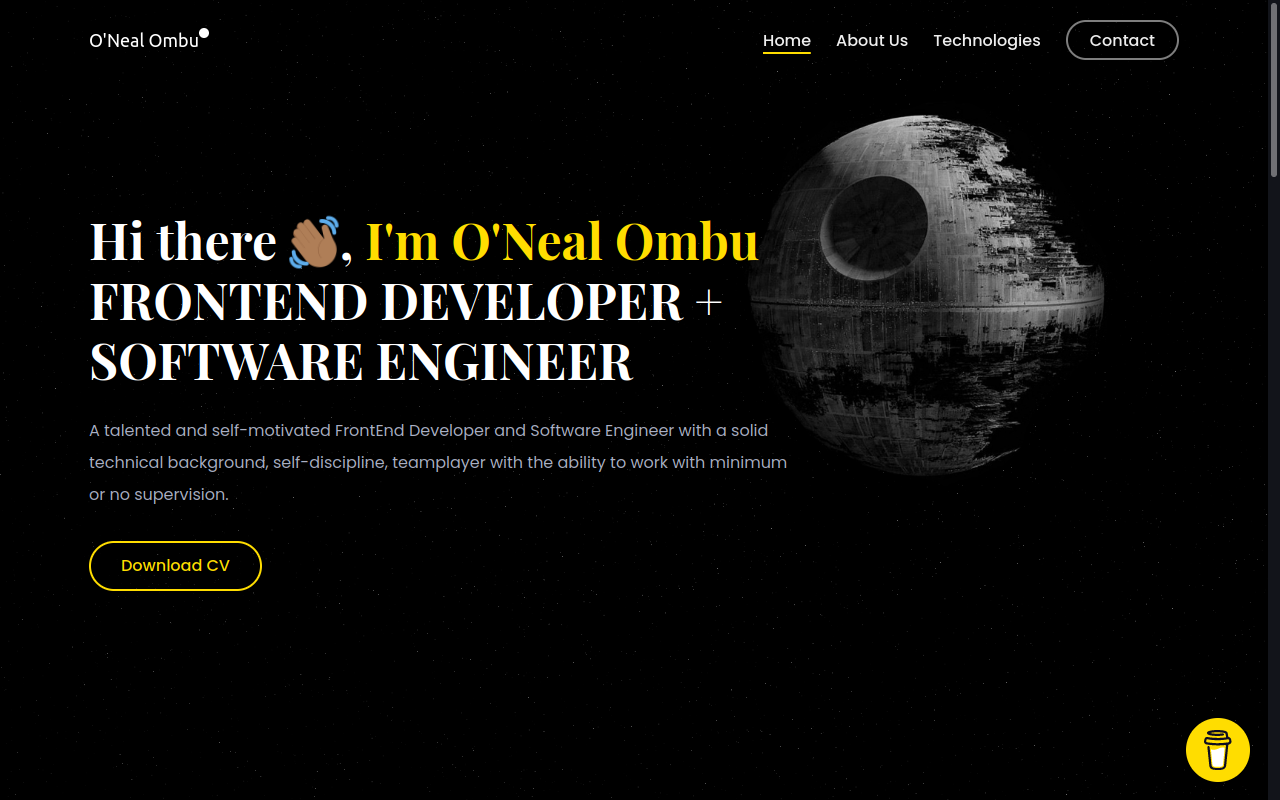
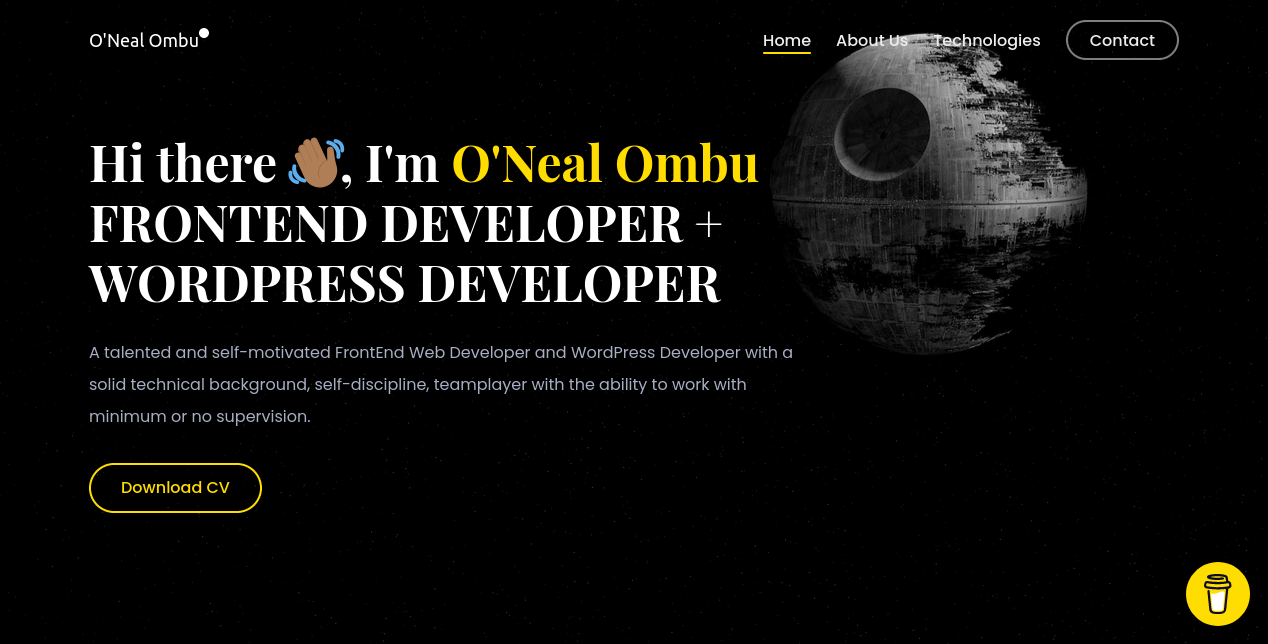
Add files via upload

Changed region(s): [[0.0615, 0.0311, 0.9227, 0.8075], [0.9227, 0.0, 1.0, 1.0], [0.0615, 0.0311, 0.1845, 0.0932]]

diff --git a/index.html b/index.html
@@ -41,7 +41,7 @@
     <meta property="twitter:title" content="O'Neal Ombu" />
     <meta
       property="twitter:description"
-      content="I am O'Neal Ombu a FrontEnd Web Developer and Mobile Software Engineer that builds web interfaces and mobile apps revolving around iOS and Android."
+      content="I am O'Neal Ombu a FrontEnd Web Developer and WordPress Developer that builds web and mobile apps revolving around iOS and Android."
     />
     <meta
       property="twitter:image"
@@ -135,7 +135,7 @@
                   <li class="current"><a href="#home">Home</a></li>
                   <li><a href="#about">About Us</a></li>
                   <li><a href="#technologies">Technologies</a></li>
-                  <li class="button"><a href="#contact">Contact</a></li>
+                  <li class="button"><a href="#contact">Hire me!</a></li>
                 </ul>
                 <span class="ccc"></span>
               </div>
@@ -195,19 +195,19 @@
               <div class="content_in">
                 <h3 class="title">
                   Hi there <span class="wave">👋🏾</span>,
-                  <span>I'm O'Neal Ombu</span>
-                  FRONTEND WEB DEVELOPER + MOBILE SOFTWARE ENGINEER
+                  I'm <span>O'Neal Ombu</span>
+                  FRONTEND DEVELOPER + WORDPRESS DEVELOPER
                 </h3>
 
                 <p class="description">
                   A talented and self-motivated FrontEnd Web Developer and
-                  Mobile Software Engineer with a solid technical background,
+                  WordPress Developer with a solid technical background,
                   self-discipline, teamplayer with the ability to work with
                   minimum or no supervision.
                 </p>
                 <div class="ombu_button">
                   <a href="resume/CV-FrontEndDeveloper-ONealOmbu.pdf"
-                    >Download CV</a
+                    >Download Resume</a
                   >
                 </div>
                 <!-- <div class="ombu_video_button">
@@ -285,8 +285,7 @@
                 <div class="technology_right">
                   <h3 class="title"><span>My technical skills...</span></h3>
                   <p class="description">
-                    HTML/CSS/JavaScript, ReactJS, React Native, NativeScript,
-                    NodeJS, MySQL, MongoDB, Firebase.
+                    HTML/CSS/JavaScript, WordPress, TailwindCSS, Bootstrap and React...
                   </p>
                 </div>
               </div>
@@ -314,7 +313,7 @@
                 <div class="contact_left">
                   <ul>
                     <li>
-                      <h3>WhatsApp</h3>
+                      <h3>WhatsApp Only</h3>
                       <p><a href="tel:+23470607713">+234 70 6048 7713</a></p>
                     </li>
                     <li>
@@ -327,7 +326,7 @@
                     </li>
                     <li>
                       <h3>Address</h3>
-                      <p>127.0.0.1:5500</p>
+                      <p>127.0.0.1</p>
                     </li>
                   </ul>
                 </div>
@@ -337,7 +336,7 @@
                     action="/modal/contact.php"
                     method="post"
                     autocomplete="off"
-                    data-email="yourmail@gmail.com"
+                    data-email="ombu.oneal@yahoo.com"
                   >
                     <div
                       class="success"
